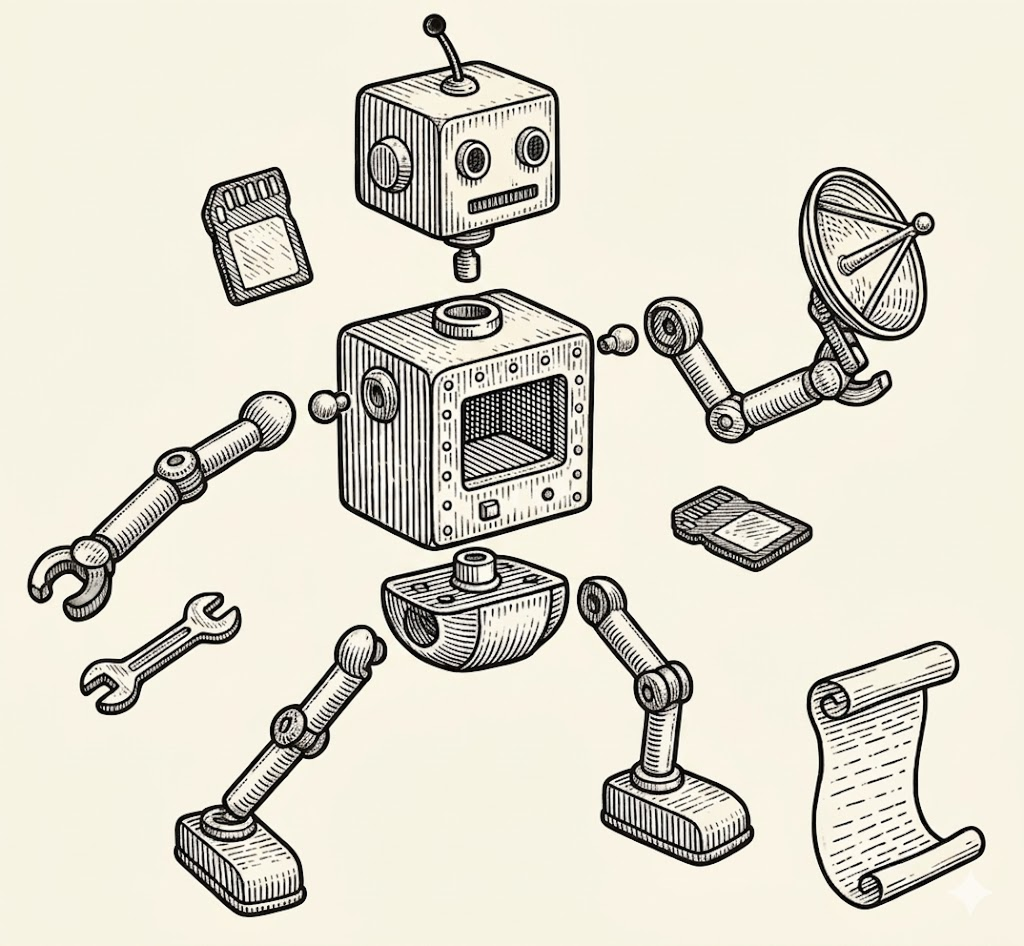
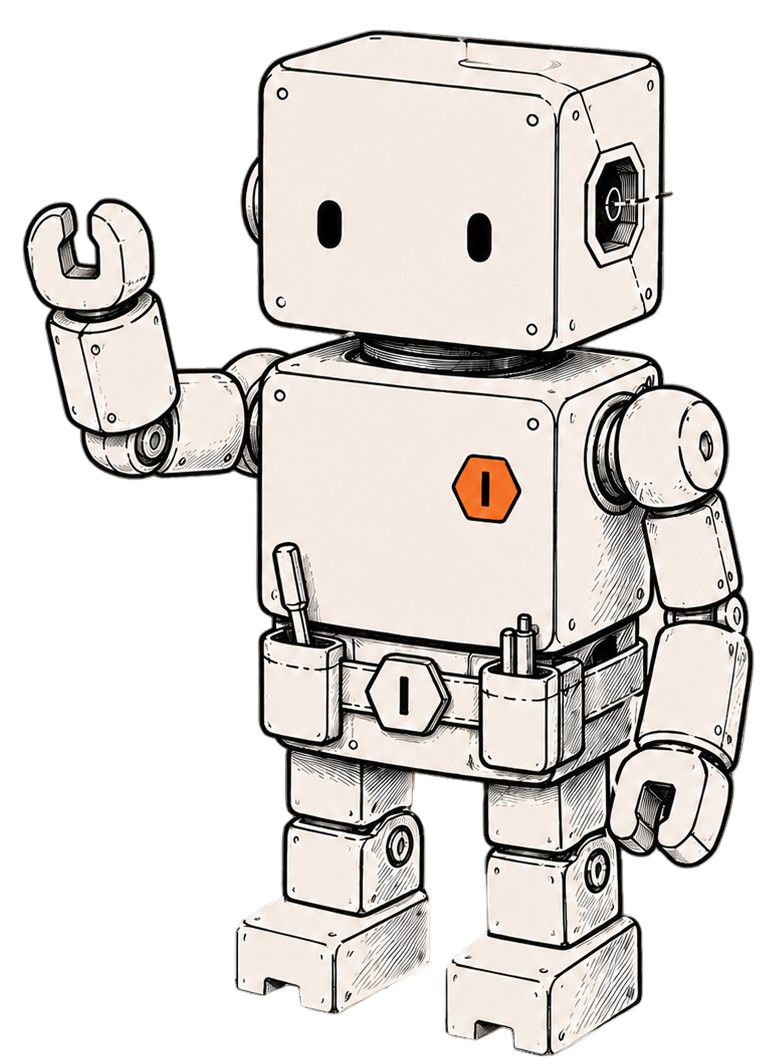
docs: update Auggy robot artwork

diff --git a/README.md b/README.md
@@ -1,5 +1,5 @@
 <p align="center">
-  <img src="assets/auggy.png" alt="Auggy — a sketch of a modular robot with detachable arms, sensors, and accessories" width="220" />
+  <img src="assets/auggy.png" alt="Auggy — a hand-drawn modular robot waving" width="220" />
 </p>
 
 <h1 align="center">Auggy</h1>
